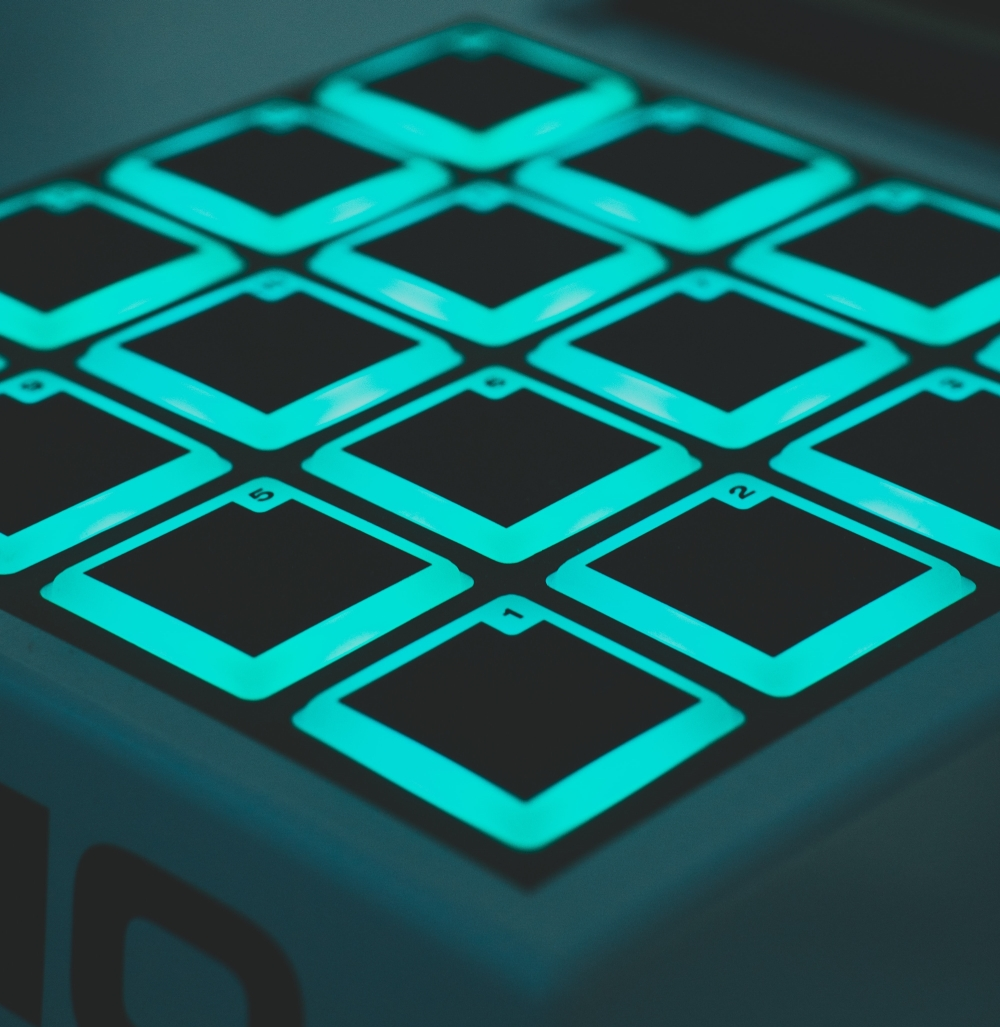
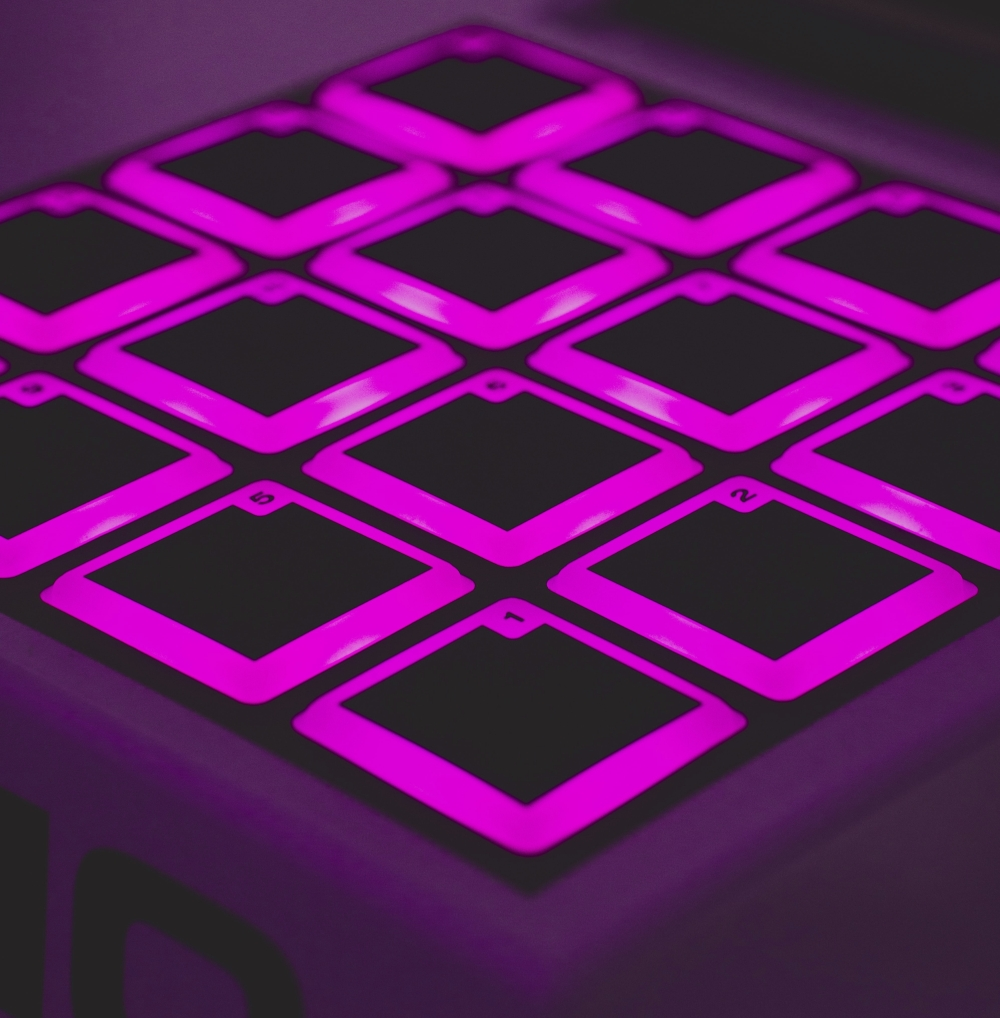
New backgrounds

diff --git a/stylesheets/landing.css b/stylesheets/landing.css
@@ -147,7 +147,7 @@ a {
 
 #logical-bg {
     content: "";
-    background-image: url('/images/motherboard.jpg');
+    background-image: url('/images/board.jpg');
     background-position: left top;
     grid-area: 1 / 3 / 3 / 3;
     position: relative;
